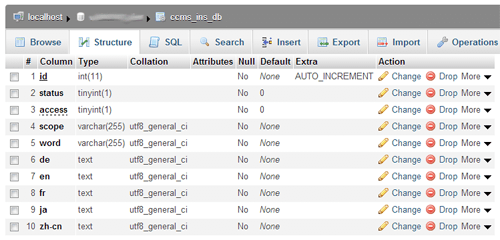
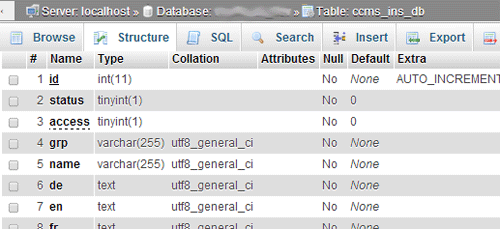
Update to v0.3
- This version contains changes to a couple fields in the ccms_ins_db
table. 'scope' and 'word' where changed to 'grp' and 'name'.
- New some images in the /ccmstpl/examples/img/ dir were rebuilt to
reflect the changes to 'scope' and 'word'.
- Several CCMS_DB calls were updated with new names in the
/ccmstpl/examples/pages-?.tpl files.
- A new MySQL dump was produced with example content for the release of
v0.3.

diff --git a/ccmstpl/examples/page-1.html b/ccmstpl/examples/page-1.html
@@ -5,7 +5,7 @@
 	<!--[if (gte IE 9)|!(IE)]><!--><html lang="{CCMS_LIB:_default.php;FUNC:ccms_lng}"> <!--<![endif]-->
 	<head>
 		<meta charset="utf-8">
-		<title>Custodian CMS by Modus Internet - {CCMS_DB:page,title}1</title>
+		<title>Custodian CMS v0.3 - {CCMS_DB:page,title}1</title>
 		<meta name="viewport" content="width=device-width, initial-scale=1.0" />
 		<meta name="description" content="" />
 		<meta name="keywords" content="Content Managment System, Multilingual Content, Custodian CMS, Modus Internet, Vincent Hallberg," />
@@ -28,9 +28,9 @@
 		</p>
 		<h2>{CCMS_DB:page,num}1</h2>
 		<p>
-			<a class="tapTarget" href="/{CCMS_LIB:_default.php;FUNC:ccms_lng}/examples/page-1.html">{CCMS_DB:page,num}1</a>
-			<a class="tapTarget" href="/{CCMS_LIB:_default.php;FUNC:ccms_lng}/examples/page-2.html">{CCMS_DB:page,num}2</a>
-			<a class="tapTarget" href="/{CCMS_LIB:_default.php;FUNC:ccms_lng}/examples/page-3.html">{CCMS_DB:page,num}3</a>
+			<a class="tapTarget" href="/{CCMS_LIB:_default.php;FUNC:ccms_lng}/examples/page-1.html">{CCMS_DB:page,page-num}1</a>
+			<a class="tapTarget" href="/{CCMS_LIB:_default.php;FUNC:ccms_lng}/examples/page-2.html">{CCMS_DB:page,page-num}2</a>
+			<a class="tapTarget" href="/{CCMS_LIB:_default.php;FUNC:ccms_lng}/examples/page-3.html">{CCMS_DB:page,page-num}3</a>
 		</p>
 		<p>
 			{CCMS_DB:page-1,para1}

diff --git a/ccmstpl/examples/page-2.html b/ccmstpl/examples/page-2.html
@@ -5,7 +5,7 @@
 	<!--[if (gte IE 9)|!(IE)]><!--><html lang="{CCMS_LIB:_default.php;FUNC:ccms_lng}"> <!--<![endif]-->
 	<head>
 		<meta charset="utf-8">
-		<title>Custodian CMS by Modus Internet - {CCMS_DB:page,title}2</title>
+		<title>Custodian CMS v0.3 - {CCMS_DB:page,title}2</title>
 		<meta name="viewport" content="width=device-width, initial-scale=1.0" />
 		<meta name="description" content="" />
 		<meta name="keywords" content="Content Managment System, Multilingual Content, Custodian CMS, Modus Internet, Vincent Hallberg," />
@@ -28,9 +28,9 @@
 		</p>
 		<h2>{CCMS_DB:page,num}2</h2>
 		<p>
-			<a class="tapTarget" href="/{CCMS_LIB:_default.php;FUNC:ccms_lng}/examples/page-1.html">{CCMS_DB:page,num}1</a>
-			<a class="tapTarget" href="/{CCMS_LIB:_default.php;FUNC:ccms_lng}/examples/page-2.html">{CCMS_DB:page,num}2</a>
-			<a class="tapTarget" href="/{CCMS_LIB:_default.php;FUNC:ccms_lng}/examples/page-3.html">{CCMS_DB:page,num}3</a>
+			<a class="tapTarget" href="/{CCMS_LIB:_default.php;FUNC:ccms_lng}/examples/page-1.html">{CCMS_DB:page,page-num}1</a>
+			<a class="tapTarget" href="/{CCMS_LIB:_default.php;FUNC:ccms_lng}/examples/page-2.html">{CCMS_DB:page,page-num}2</a>
+			<a class="tapTarget" href="/{CCMS_LIB:_default.php;FUNC:ccms_lng}/examples/page-3.html">{CCMS_DB:page,page-num}3</a>
 		</p>
 		<p>
 			{CCMS_DB:page-2,para1}

diff --git a/ccmstpl/examples/page-3.html b/ccmstpl/examples/page-3.html
@@ -5,7 +5,7 @@
 	<!--[if (gte IE 9)|!(IE)]><!--><html lang="{CCMS_LIB:_default.php;FUNC:ccms_lng}"> <!--<![endif]-->
 	<head>
 		<meta charset="utf-8">
-		<title>Custodian CMS by Modus Internet - {CCMS_DB:page,title}3</title>
+		<title>Custodian CMS v0.3 - {CCMS_DB:page,title}3</title>
 		<meta name="viewport" content="width=device-width, initial-scale=1.0" />
 		<meta name="description" content="" />
 		<meta name="keywords" content="Content Managment System, Multilingual Content, Custodian CMS, Modus Internet, Vincent Hallberg," />
@@ -28,9 +28,9 @@
 		</p>
 		<h2>{CCMS_DB:page,num}3</h2>
 		<p>
-			<a class="tapTarget" href="/{CCMS_LIB:_default.php;FUNC:ccms_lng}/examples/page-1.html">{CCMS_DB:page,num}1</a>
-			<a class="tapTarget" href="/{CCMS_LIB:_default.php;FUNC:ccms_lng}/examples/page-2.html">{CCMS_DB:page,num}2</a>
-			<a class="tapTarget" href="/{CCMS_LIB:_default.php;FUNC:ccms_lng}/examples/page-3.html">{CCMS_DB:page,num}3</a>
+			<a class="tapTarget" href="/{CCMS_LIB:_default.php;FUNC:ccms_lng}/examples/page-1.html">{CCMS_DB:page,page-num}1</a>
+			<a class="tapTarget" href="/{CCMS_LIB:_default.php;FUNC:ccms_lng}/examples/page-2.html">{CCMS_DB:page,page-num}2</a>
+			<a class="tapTarget" href="/{CCMS_LIB:_default.php;FUNC:ccms_lng}/examples/page-3.html">{CCMS_DB:page,page-num}3</a>
 		</p>
 		<p>
 			{CCMS_DB:page-3,para1}

diff --git a/index.php b/index.php
@@ -4,7 +4,7 @@
 	PLEASE DO NOT EDIT THIS FILE, changes will be overwritten the next time it is updated.
 
 @version
-	0.2
+	0.3
 
 @warning
 	This file requires that the include path contain the Custodian CMS
@@ -13,7 +13,7 @@
 	it and reload the page.
 
 @Copyright
-	Custodian CMS v0.2 - Content Management System (CMS)
+	Custodian CMS v0.3 - Content Management System (CMS)
 	Copyright (C) 2013 - Vincent A Hallberg, modusinternet.com
 
 	This library is free software; you can redistribute it and/or
@@ -37,9 +37,9 @@ $ccms_whitelist = array();
 $user_whitelist = array();
 
 if(file_exists('ccmspre/config.php') && file_exists('ccmspre/user_whitelist.php')) {
-    require_once "ccmspre/config.php";
+	require_once "ccmspre/config.php";
 } else {
-    echo "config.php or user_whitelist.php not found.<br /><br />Go into the /ccmspre/ folder and copy or rename config_original.php and user_whitelist_original.php to config.php and user_whitelist.php.  Update the various settings found throughout and try reloading this page.<br /><br />NOTE: You need to setup a new database on your own but you can copy the content or import the /ccms-db-setup.sql file to build all of the necessary tables and their sample content to help you get started.  Quick link to the <a href=\"/ccms-db-0.2-setup.sql\">ccms-db-0.2-setup.sql</a> found in your document root.";
+	echo "config.php or user_whitelist.php not found.<br /><br />Go into the /ccmspre/ folder and copy or rename config_original.php and user_whitelist_original.php to config.php and user_whitelist.php.  Update the various settings found throughout and try reloading this page.<br /><br />NOTE: You need to setup a new database on your own but you can copy the content or import the /ccms-db-setup.sql file to build all of the necessary tables and their sample content to help you get started.  Quick link to the <a href=\"/ccms-db-0.2-setup.sql\">ccms-db-0.2-setup.sql</a> found in your document root.";
 	die();
 }
 

diff --git a/ccmspre/index.php b/ccmspre/index.php
@@ -287,14 +287,14 @@ function CCMS_insDBPreload($a = NULL) {
 	// `access` = '0'; www side
 	// `access` = '1'; admin side
 	if($a[2]) {
-		$scopeArray = explode(",", $a[2]);
-		foreach($scopeArray as $key) {
-			if($scope != "") {
-				$scope .= " OR ";
+		$grpArray = explode(",", $a[2]);
+		foreach($grpArray as $key) {
+			if($grp != "") {
+				$grp .= " OR ";
 			}
-			$scope .= "`scope` = '" . $key . "'";
+			$grp .= "`grp` = '" . $key . "'";
 		}
-		$query = "SELECT * FROM `ccms_ins_db` WHERE `status` = '1' AND `access` = '0' AND (" . $scope . ");";
+		$query = "SELECT * FROM `ccms_ins_db` WHERE `status` = '1' AND `access` = '0' AND (" . $grp . ");";
 	} else {
 		$query = "SELECT * FROM `ccms_ins_db` WHERE `status` = '1' AND `access` = '0';";
 	}
@@ -302,8 +302,8 @@ function CCMS_insDBPreload($a = NULL) {
 	$qry->execute();
 	$qry->setFetchMode(PDO::FETCH_ASSOC);
 	while($row = $qry->fetch()) {
-		$CLEAN["CCMS_insDBPreloadContent"][$row["scope"]][$row["word"]][$CFG["DEFAULT_SITE_CHAR_SET"]] = $row[$CFG["DEFAULT_SITE_CHAR_SET"]];
-		$CLEAN["CCMS_insDBPreloadContent"][$row["scope"]][$row["word"]][$CLEAN["ccms_lng"]] = $row[$CLEAN["ccms_lng"]];
+		$CLEAN["CCMS_insDBPreloadContent"][$row["grp"]][$row["name"]][$CFG["DEFAULT_SITE_CHAR_SET"]] = $row[$CFG["DEFAULT_SITE_CHAR_SET"]];
+		$CLEAN["CCMS_insDBPreloadContent"][$row["grp"]][$row["name"]][$CLEAN["ccms_lng"]] = $row[$CLEAN["ccms_lng"]];
 	}
 }
 
